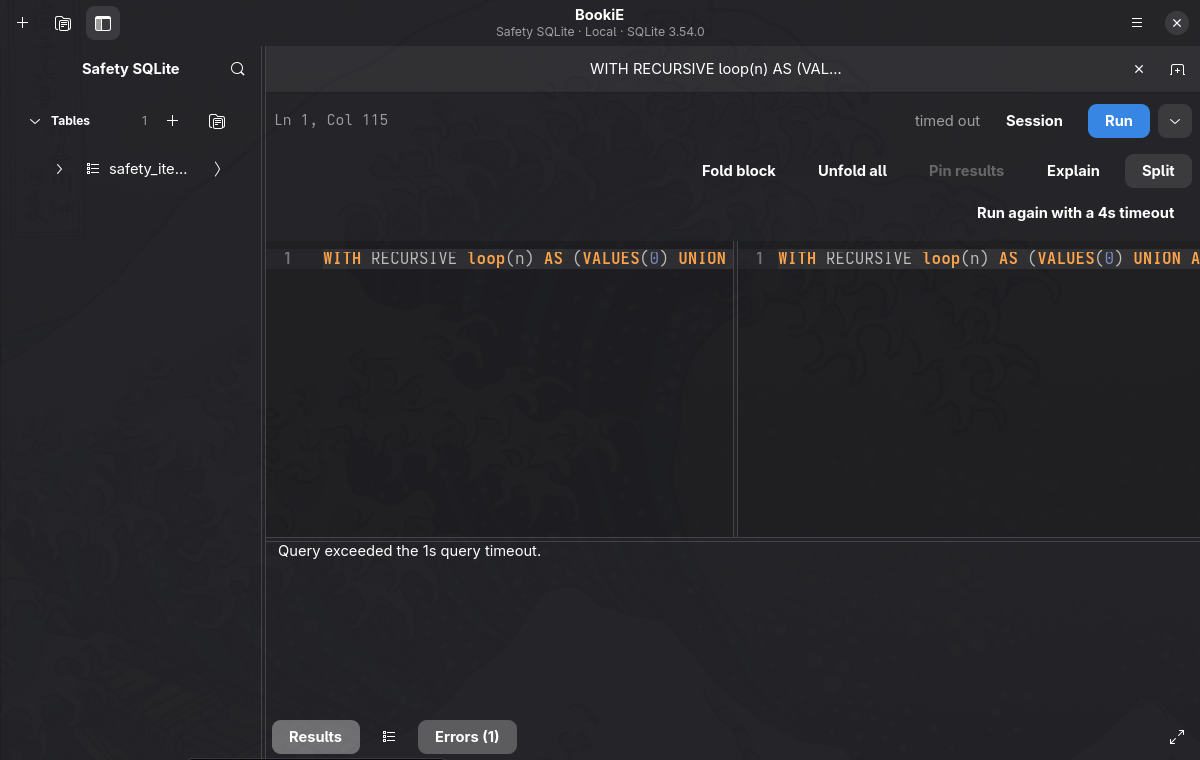
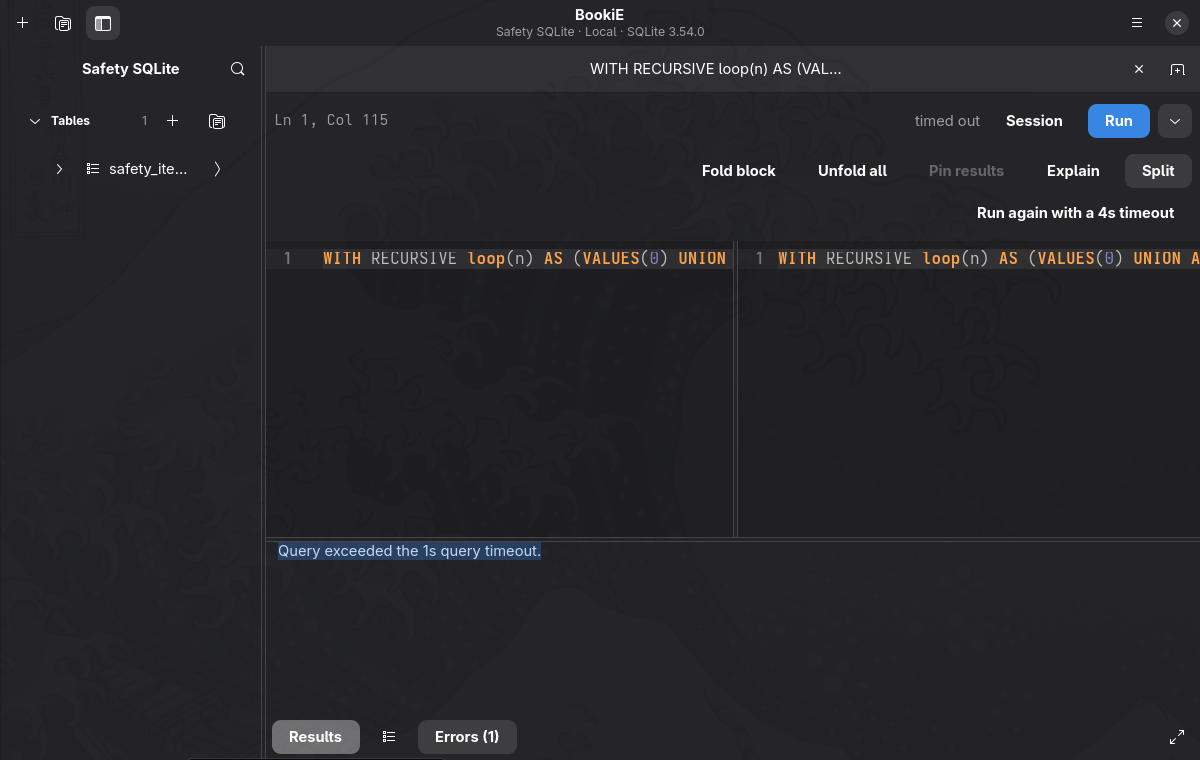
docs: record integrated panel desktop acceptance

Changed region(s): [[0.2158, 0.6961, 0.4625, 0.7566], [0.3392, 0.9382, 0.4317, 0.9987]]

diff --git a/docs/evidence/editor-bottom-panel-2026-10-22/native-acceptance.py b/docs/evidence/editor-bottom-panel-2026-10-22/native-acceptance.py
@@ -67,7 +67,7 @@ try:
         ui.wait_for_node(name='842',present=False)
         subprocess.run(['/tmp/bookie-panel-pointer','395','837'],check=True)
         ui.wait_for_node(name='842')
-        assert editor.queryComponent().getExtents(ui.pyatspi.WINDOW_COORDS).height == after, 'hide-maximized must retain divider size' 
+        assert editor.queryComponent().getExtents(ui.pyatspi.WINDOW_COORDS).height == after, 'hide-maximized must retain divider size'
         ui.invoke_accessible_action('win.open-editor')
         ui.run_sql('SELECT 843;');ui.wait_for_node(name='843')
         subprocess.run(['wtype','-M','ctrl','-k','j','-m','ctrl'],check=True)
@@ -75,6 +75,16 @@ try:
         ui.invoke_accessible_action('win.close-current')
         ui.wait_for_node(name='842')
         subprocess.run(['grim','-g',f'80,100 {width}x760',str(artifacts/'after-close-hidden.png')],check=True)
+        ui.invoke_accessible_action('win.open-editor')
+        ui.run_sql('WITH RECURSIVE loop(n) AS (VALUES(0) UNION ALL SELECT n+1 FROM loop WHERE n < 1000000000) SELECT sum(n) FROM loop;')
+        time.sleep(.1)
+        subprocess.run(['wtype','-M','ctrl','-k','j','-m','ctrl'],check=True)
+        ui.invoke_accessible_action('win.close-current')
+        ui.wait_for_node(name='842')
+        time.sleep(2)
+        ui.wait_for_node(name='842')
+        ui.wait_for_node(name='timed out',present=False)
+
     ui.run_sql('SELECT * FROM bookie_missing_panel_table;')
     ui.invoke(ui.wait_for_node(name='Errors (1)',role=ui.pyatspi.ROLE_PUSH_BUTTON))
     ui.wait_for_node_containing('bookie_missing_panel_table')

diff --git a/docs/manual-verification-0.2-features.md b/docs/manual-verification-0.2-features.md
@@ -406,11 +406,11 @@ Source follow-up [UI-43 / #1349](https://github.com/cozyGarage/BookiE/issues/134
 
 ## Editor bottom panel
 
-- [ ] On native Arch/Hyprland, run a query with a unique visible value, hide/show Results by button and Ctrl+J from SQL and the result grid, and confirm the same result and selection remain.
-- [ ] Resize the divider, maximize/restore, and hide while maximized. Confirm the normal divider size and the previously focused SQL split are restored.
-- [ ] Check normal and enlarged text at narrow/wide sizes in light/dark themes. Every panel control remains reachable.
-- [ ] Run successful, failed and timed-out queries. Errors shows only the latest accepted failures; switching views does not hide or rerun the result set.
-- [ ] Close a query with the panel hidden while another editor remains open. Its controls still work and no late result revives the closed editor.
+- [x] On native Arch/Hyprland, run a query with a unique visible value, hide/show Results by button and Ctrl+J from SQL and the result grid, and confirm the same result and selection remain.
+- [x] Resize the divider, maximize/restore, and hide while maximized. Confirm the normal divider size and the previously focused SQL split are restored.
+- [x] Check 1,200 px with normal SQL text and 802 px with a 20-point SQL font in light/dark themes. Every panel control remains reachable.
+- [x] Run successful, failed and timed-out queries. Errors shows only the latest accepted failures; switching views does not hide or rerun the result set.
+- [x] Close a query with the panel hidden while another editor remains open. Its controls still work and no late result revives the closed editor.
 
 Source tests and native acceptance for this change are recorded in its PR and linked evidence; the checklist is not automatically satisfied by Xvfb.
 

diff --git a/docs/evidence/editor-bottom-panel-2026-10-22/README.md b/docs/evidence/editor-bottom-panel-2026-10-22/README.md
@@ -30,3 +30,7 @@ Run the registered GTK tier and the installed-style scenario using the current r
 The temporary [pointer probe](native-pointer.c) uses the compositor's advertised virtual-pointer protocol without root. Its header and protocol code were generated with wayland-scanner from the [official wlr virtual-pointer XML](https://github.com/swaywm/wlr-protocols/blob/master/unstable/wlr-virtual-pointer-unstable-v1.xml), then linked with libwayland-client. The probe's absolute geometry is specific to this 1,920 × 1,200 display. It is test evidence, not a product dependency or a general desktop automation API.
 
 Still separate: packaged installation/upgrade, the supported distro floor, broader accessibility/Orca qualification and maintainer Forgejo acceptance. No new claim is made about informational server messages, arbitrary shell execution or SQL error source navigation.
+
+## Final Linux integration
+
+The manifest records the final integration commit and source-built binary digest. After merging Linux's resource fixes, all 121 registered isolated GTK tests and 725 regular app unit tests passed; strict app Clippy and the SQLite no-rerun scenario also passed. All four native cases were repeated on that integrated binary. The pointer case additionally closed a busy hidden query and waited beyond its timeout; its late completion did not replace the first editor's retained result. Final preflight passed: 2,056 non-GTK unit tests, 2,057 sandbox tests and one Redis cancellation test.
